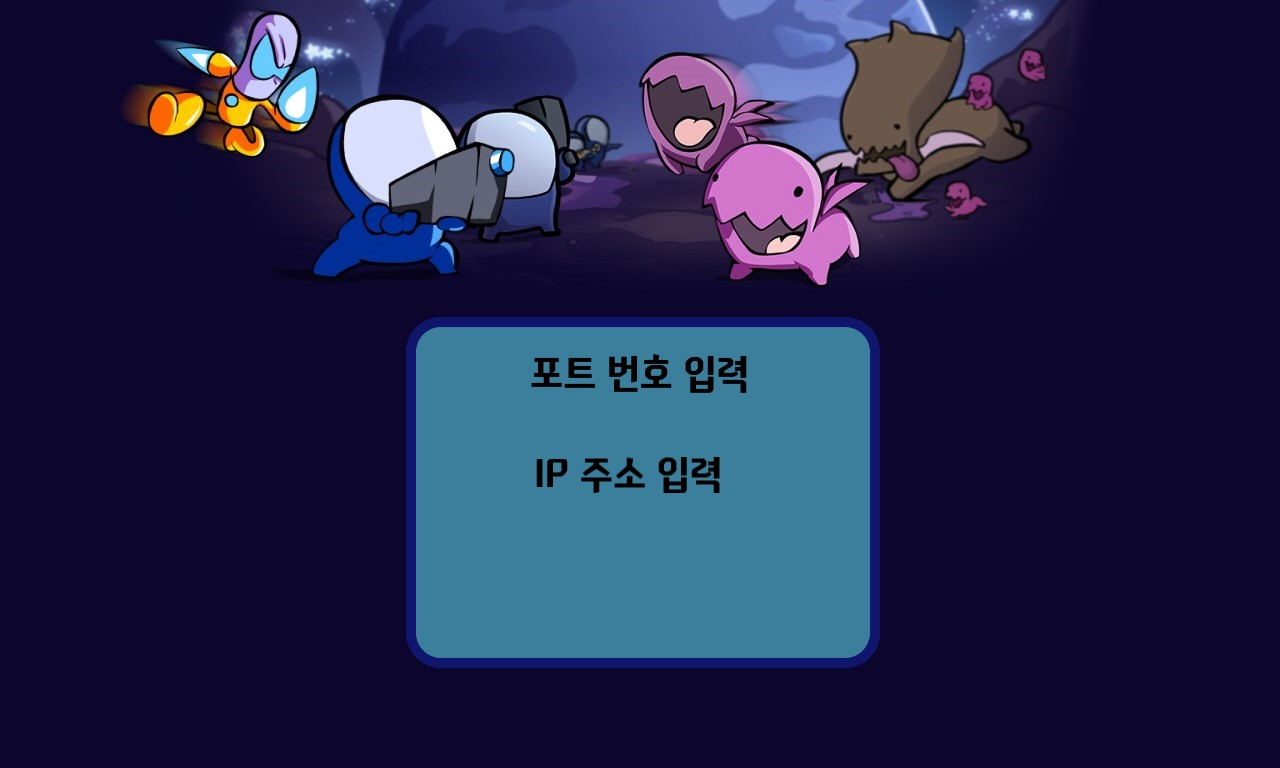
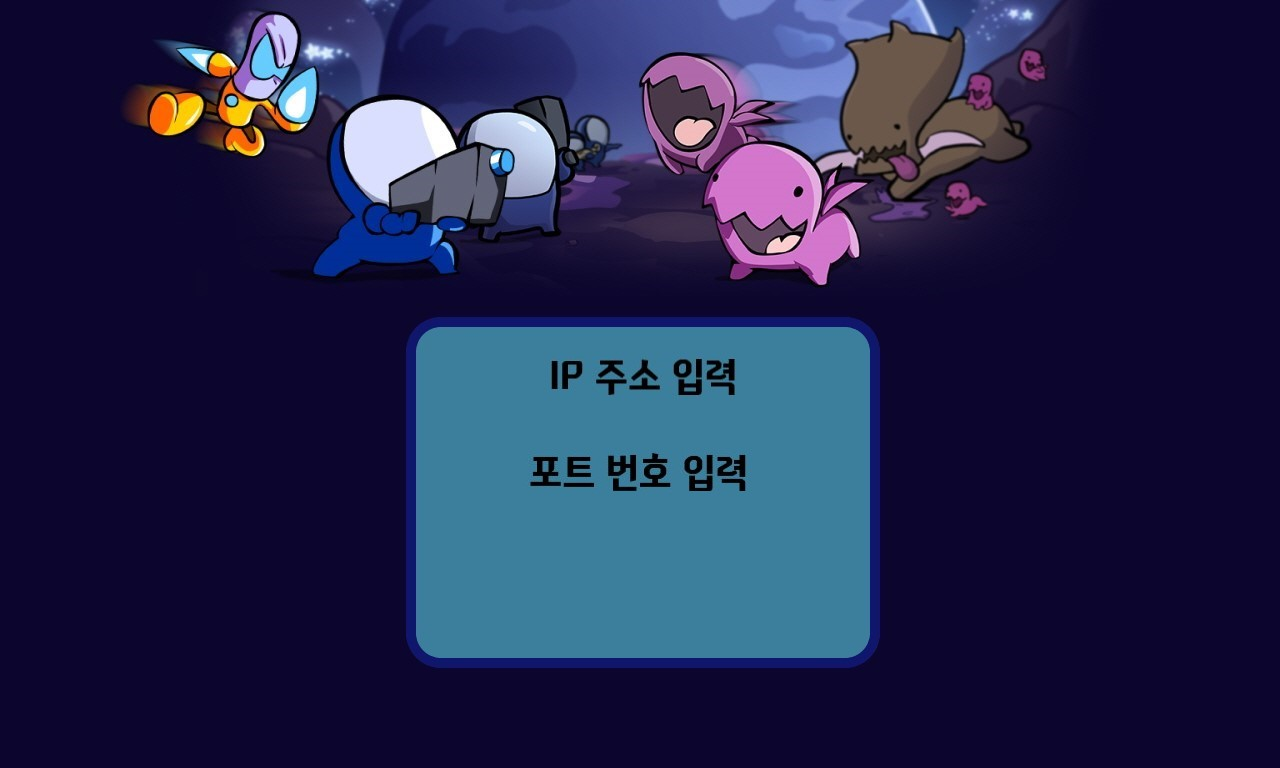
Change editboxPosition
portnum , ipaddr -> ipaddr , portnum

Changed region(s): [[0.4062, 0.5938, 0.5938, 0.6562], [0.4062, 0.4688, 0.5938, 0.5312]]

diff --git a/Project1/Scene.cpp b/Project1/Scene.cpp
@@ -2,7 +2,7 @@
 
 
 
-InitScene::InitScene() :portBox(440, 400, 400, 50, "textModel.ttf"), ipaddrBox(440, 500, 400, 50, "textModel.ttf")
+InitScene::InitScene() :portBox(440, 500, 400, 50, "textModel.ttf"), ipaddrBox(440, 400, 400, 50, "textModel.ttf")
 {
 	falseButton = SimpleSDL::Image(540, 580, 0, 0, 0, 0, "resource/ButtonFalse.png");
 	trueButton = SimpleSDL::Image(540, 580, 0, 0, 0, 0, "resource/ButtonTrue.png");
